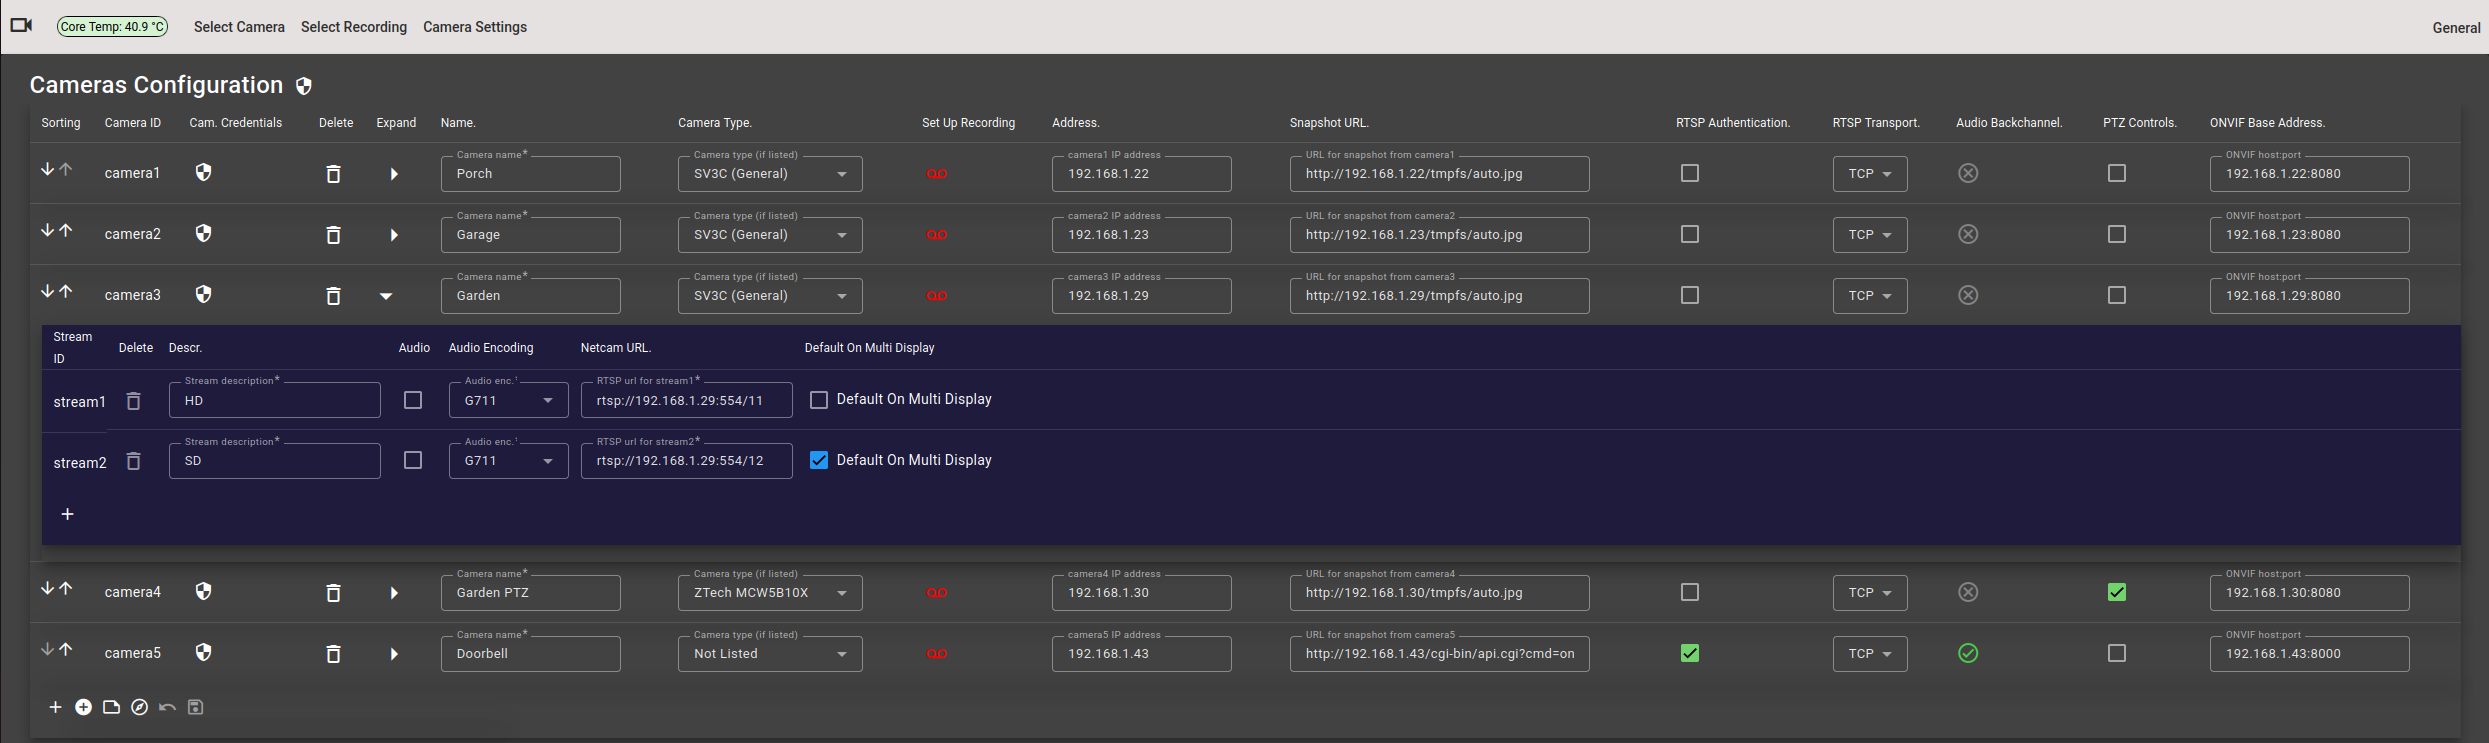
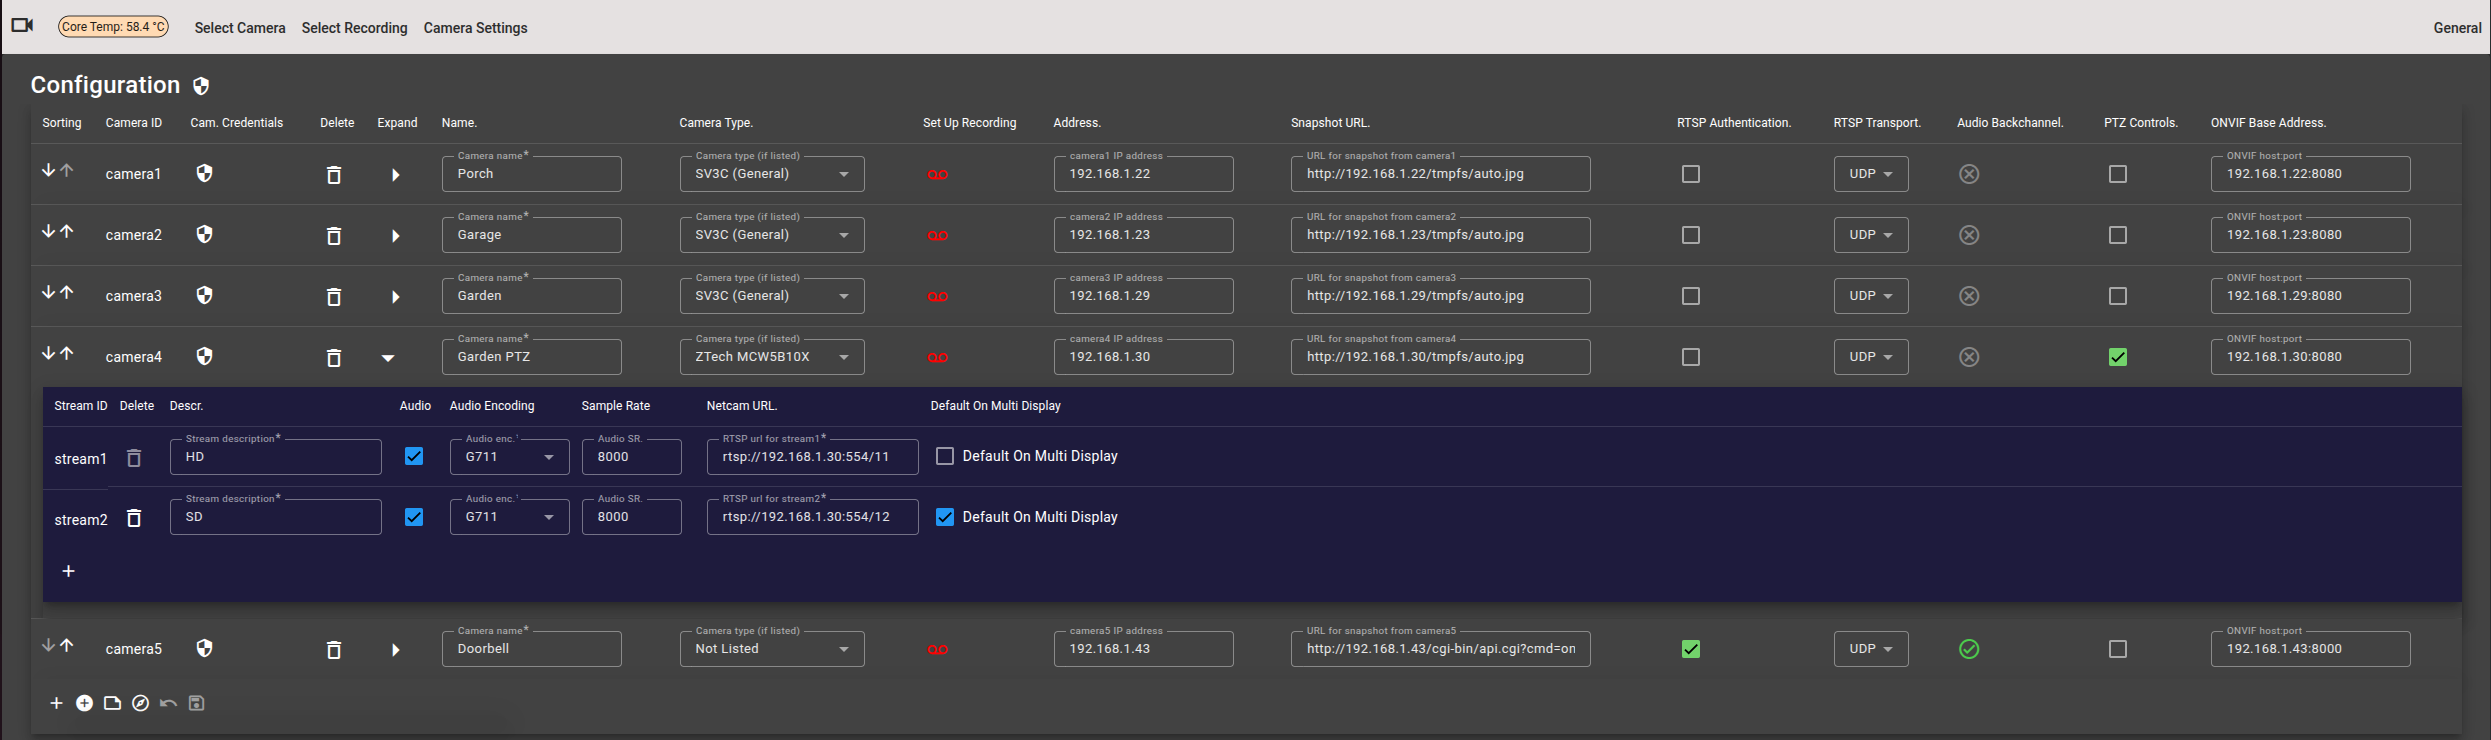
* Update docs * Fix bug in sampleRate validator

diff --git a/client/src/app/config-setup/config-setup.component.html b/client/src/app/config-setup/config-setup.component.html
@@ -6,7 +6,7 @@
     <app-confirm-can-deactivate (signalConfirmExit)="confirmDeactivate($event)"></app-confirm-can-deactivate>
 }
 <mat-card [ngClass]="{'grey-out': checkDeactivate}">
-    <mat-card-title>Cameras Configuration
+    <mat-card-title>Configuration
         <span [matTooltip]="!haveOnvifCredentials ? 'Onvif credentials are not set, please enter a username and password. If your cameras do not use authentication for web admin or snapshots, this will not be required' : isGuest ? 'Disabled for guest' : 'Set or change the user name and password used For Onvif authentication. This is used for overall Onvif discovery.'"
               matTooltipClass="tooltip">
             <button (click)="toggleOnvifPasswordDialogue()" [disabled]="isGuest" class="change-password-button"
@@ -233,7 +233,7 @@
                             <mat-label>URL for snapshot from {{ cam.key }}</mat-label>
                             <input (change)="updateCamField(i, 'snapshotUri')"
                                    [formControl]="getCamControl(i, 'snapshotUri')" autocomplete="off" matInput
-                                   matTooltip="The URI for snapshots for {{cam.key}}. This is used to view the image from the camera by clicking on the camera ID in the Cameras Configuration editor."
+                                   matTooltip="The URI for snapshots for {{cam.key}}. This is used to view the image from the camera by clicking on the camera ID in the Configuration editor."
                                    matTooltipClass="tooltip" maxlength="150" placeholder="Snapshot URL" type="text">
                             <mat-error *ngIf="getCamControl(i, 'snapshotUri').invalid">Enter the URI</mat-error>
                         </mat-form-field>
@@ -245,7 +245,7 @@
                     <td *matCellDef="let cam; let i = dataIndex" mat-cell>
                         <mat-checkbox (change)="updateCamField(i, 'useRtspAuth')"
                                       [formControl]="getCamControl(i, 'useRtspAuth')"
-                                      matTooltip="{{'Use authentication on the RTSP streams on '+ cam.key + ' If checked. The username and password for all cameras are entered on the cameras configuration page by clicking the button to the right of the page title.'}}"
+                                      matTooltip="{{'Use authentication on the RTSP streams on '+ cam.key + ' If checked. The username and password for all cameras are entered on the NVR configuration page by clicking the button to the right of the page title.'}}"
                                       matTooltipClass="tooltip">
                         </mat-checkbox>
                         <mat-error *ngIf="getCamControl(i, 'useRtspAuth').invalid">Set the RTSP auth status</mat-error>
@@ -395,7 +395,7 @@
                                     <th *matHeaderCellDef mat-header-cell>Audio Encoding</th>
                                     <td *matCellDef="let stream; let streamIndex = index" mat-cell [width]="125">
                                         <mat-form-field [style.width.px]="120" appearance="outline"
-                                                        matTooltip="Set the audio encoding (G711 or AAC) delivered from the camera for {{stream.key}}. If you are unsure, select 'Not Listed'"
+                                                        matTooltip="Set the audio encoding (G711 or AAC) delivered from the camera for {{stream.key}}.'"
                                                         matTooltipClass="tooltip">
                                             <mat-label>Audio enc.</mat-label>
                                             <mat-select (selectionChange)="updateAudioEncoding($event, stream.value)"

diff --git a/client/src/app/config-setup/config-setup.component.ts b/client/src/app/config-setup/config-setup.component.ts
@@ -140,10 +140,10 @@ export class ConfigSetupComponent implements CanComponentDeactivate, OnInit, Aft
     constructor(public cameraSvc: CameraService, public utils: UtilsService, private sanitizer: DomSanitizer, private cd: ChangeDetectorRef) {
     }
 
-  validateSampleRate(audioEnabled: boolean): ValidatorFn {
+  validateSampleRate(): ValidatorFn {
     return (control: AbstractControl): ValidationErrors | null => {
       const sampleRate = control.value;
-      const invalid = audioEnabled && (sampleRate < 3000 || sampleRate > 64000);
+      const invalid = sampleRate < 3000 || sampleRate > 64000;
       let error: any = {limits: {value: control.value}};
       return invalid ? error : null;
     }
@@ -271,7 +271,8 @@ export class ConfigSetupComponent implements CanComponentDeactivate, OnInit, Aft
     setUpTableFormControls(): void {
         this.streamControls = [];
         this.list$ = new BehaviorSubject<Camera[]>(Array.from(this.cameras.values()));
-        const toCameraGroups = this.list$.value.map(camera => {
+
+        const toCameraGroups = this.list$.value.map((camera) => {
             let streamList$: BehaviorSubject<Stream[]> = new BehaviorSubject<Stream[]>(Array.from(camera.streams.values()));
 
             const toStreamGroups = streamList$.value.map((stream: Stream) => {
@@ -281,8 +282,8 @@ export class ConfigSetupComponent implements CanComponentDeactivate, OnInit, Aft
                         disabled: false
                     }, [Validators.required, Validators.maxLength(20), Validators.pattern(/^[a-zA-Z0-9\\ ]{2,20}$/)]),
                     audio: new UntypedFormControl(stream.audio, [Validators.required]),
-                    audio_encoding: new UntypedFormControl(stream.audio_encoding, [Validators.required, Validators.pattern(/^(AAC|G711|G726|None|Not Listed)$/)]),
-                    audio_sample_rate: new UntypedFormControl(stream.audio_sample_rate, [this.validateSampleRate(stream.audio)]),
+                    audio_encoding: new UntypedFormControl(stream.audio_encoding, [Validators.required, Validators.pattern(/^(AAC|G711|G726|None)$/)]),
+                    audio_sample_rate: new UntypedFormControl(stream.audio_sample_rate, [this.validateSampleRate()]),
                     netcam_uri: new UntypedFormControl(stream.netcam_uri, [Validators.required, Validators.pattern(/\b((rtsp):\/\/[-\w]+(\.\w[-\w]*)+|(?:[a-z0-9](?:[-a-z0-9]*[a-z0-9])?\.)+(?: com\b|edu\b|biz\b|gov\b|in(?:t|fo)\b|mil\b|net\b|org\b|[a-z][a-z]\b))(\\:\d+)?(\/[^.!,?;"'<>()\[\]{}\s\x7F-\xFF]*(?:[.!,?]+[^.!,?;"'<>()\[\]{}\s\x7F-\xFF]+)*)?/)]),
                 }, {updateOn: "change"});
             });

diff --git a/client/src/app/camera-params/camera-params.component.ts b/client/src/app/camera-params/camera-params.component.ts
@@ -113,8 +113,8 @@ export class CameraParamsComponent implements OnInit, AfterViewInit, OnDestroy {
         reason => {
           if (reason.status == 401) {
             this.reporting.warningMessage = `
-             Unauthorised: The credentials for this camera are not correctly set. Please go to General -> Cameras Configuration and
-             click on the shield icon beside the title (Cameras Configuration). You can then set the the user name and
+             Unauthorised: The credentials for this camera are not correctly set. Please go to General -> Configuration and
+             click on the shield icon beside the title (Configuration). You can then set the the user name and
              password which must be set the same on all cameras.
              `;
           } else {

diff --git a/client/src/app/cameras/camera.service.ts b/client/src/app/cameras/camera.service.ts
@@ -104,11 +104,10 @@ export class CameraService {
         "ZTech MCW5B10X")]
 
   private readonly _audioEncodings: AudioEncoding[] = [
-    new AudioEncoding('None', 'None'),  // No audio in stream
-    new AudioEncoding('Not Listed', 'Not Listed'),  // Audio type not listed, transcode to AAC
-    new AudioEncoding('G711', 'G711'),  // Transcode to AAC
-    new AudioEncoding('G726', 'G726'),  // Transcode to AAC
-    new AudioEncoding('AAC', 'AAC'),    // No transcoding required
+    new AudioEncoding('None', 'None'),
+    new AudioEncoding('G711', 'G711'),
+//    new AudioEncoding('G726', 'G726'),
+    new AudioEncoding('AAC', 'AAC'),
 
   ];
 

diff --git a/client/src/app/nav/nav.component.html b/client/src/app/nav/nav.component.html
@@ -76,7 +76,7 @@
         <button mat-menu-item (click)="configSetup();menuClosed()"
                 matTooltip="Discover and configure the cameras for live view, recording, audio back channel and various other features."
                 matTooltipClass="tooltip">
-        Cameras Configuration
+        Configuration
         </button>
           <button mat-menu-item (click)="confirmLogoff();menuClosed()">Log Off</button>
           <div mat-menu-item

diff --git a/SETTING-UP.md b/SETTING-UP.md
@@ -62,13 +62,13 @@ Get Active Local IP Address(es) option.
 ## Set Up Cameras
 The NVR must be configured to use your cameras.
 The configuration editor can be found at General ->
-Cameras Configuration.
+Configuration.
 
-If camera configuration has not yet been done, the Cameras Configuration Editor will
+If camera configuration has not yet been done, the Configuration Editor will
 be empty apart from a single unpopulated camera entry.
 
 ![config editor](README.images/config-editor3.png)
-*Cameras Configuration Editor*
+Configuration Editor*
 
 #### Config page button functions
 <img src="README.images/security-svgrepo-com.svg" title="Image of camera configuration page" width="20"/></img> **(At top of page to the left of the
@@ -145,15 +145,16 @@ All these parameters can be set manually, though some are auto-populated by Onvi
 | Onvif Base Address  | IP address and port of the camera Onvif SOAP web service.                                                                                                                                                                                                                                                                                                                                                                                                                                                                                    | Yes                    |
 
 #### Stream Parameters
-| Parameter/Control        | Function                                                                                                                                                                                                                                                                                                                                                                                                                       | Set by Onvif Discovery |
-|--------------------------|--------------------------------------------------------------------------------------------------------------------------------------------------------------------------------------------------------------------------------------------------------------------------------------------------------------------------------------------------------------------------------------------------------------------------------|------------------------|
-| Stream ID                | Map key of the stream                                                                                                                                                                                                                                                                                                                                                                                                          | N/A                    |
-| Delete                   | Delete this stream from the camera.                                                                                                                                                                                                                                                                                                                                                                                            | N/A                    |
-| Descr.                   | Description of the stream (typically HD/SD). This is appended to the camera name on the menus.                                                                                                                                                                                                                                                                                                                                 | No                     |
-| Audio                    | Check to include the cameras audio with the video (if present).                                                                                                                                                                                                                                                                                                                                                                | No                     |
-| Audio Encoding           | Set to the audio encoding on the cameras RTSP stream. If the audio format is AAC, it will be passed through as is, otherwise it will be encoded to AAC.                                                                                                                                                                                                                                                                        | Yes                    |
-| Netcam URI               | The cameras RTSP video/audio url.                                                                                                                                                                                                                                                                                                                                                                                              | Yes                    |
-| Default On Multi Display | Sets the stream as this cameras default on the Multi Camera View. The multi camera view allows switching to other streams than the default.                                                                                                                                                                                                                                                                                    | N/A                    |
+| Parameter/Control        | Function                                                                                                                                    | Set by Onvif Discovery |
+|--------------------------|---------------------------------------------------------------------------------------------------------------------------------------------|------------------------|
+| Stream ID                | Map key of the stream                                                                                                                       | N/A                    |
+| Delete                   | Delete this stream from the camera.                                                                                                         | N/A                    |
+| Descr.                   | Description of the stream (typically HD/SD). This is appended to the camera name on the menus.                                              | No                     |
+| Audio                    | Check to include the cameras audio with the video (if present). Onvif discovery will check this if an audio stream is detected.             | Yes                    |
+| Audio Encoding           | Set to the audio encoding used on the cameras RTSP stream.                                                                                  | Yes                    |
+| Sample Rate              | The streams audio sample rate.                                                                                                              | Yes                    |
+| Netcam URI               | The cameras RTSP video/audio url.                                                                                                           | Yes                    |
+| Default On Multi Display | Sets the stream as this cameras default on the Multi Camera View. The multi camera view allows switching to other streams than the default. | N/A                    |
 
 <a id="wrong-onvif-creds"></a> ![config editor](README.images/config-editor2.png "Camera configuration page following Onvif discovery, showing a camera whose credentials are different from the global Onvif credentials")
 *Camera Configuration Editor Showing A Camera Whose Onvif Credentials Differ From The Global Onvif Credentials*

diff --git a/STRUCTURE.md b/STRUCTURE.md
@@ -60,7 +60,7 @@ On this NVR, Motion can detect and record motion on one stream of each camera, (
 start a recording on another (usually the higher resolution) stream so that recordings
 in both resolutions are made.
 
-###### Configurable from the cameras configuration page. You can select either FTP or Motion Service triggered recording or none for any camera, but not both together.
+###### Configurable from the configuration page. You can select either FTP or Motion Service triggered recording or none for any camera, but not both together.
 ### nginx
 nginx (https://nginx.org/en/linux_packages.html) is a reverse proxy through which client access to all the NVR services are accessed.
 Access is through a single port (443), giving them a common origin from the browser point of view.
